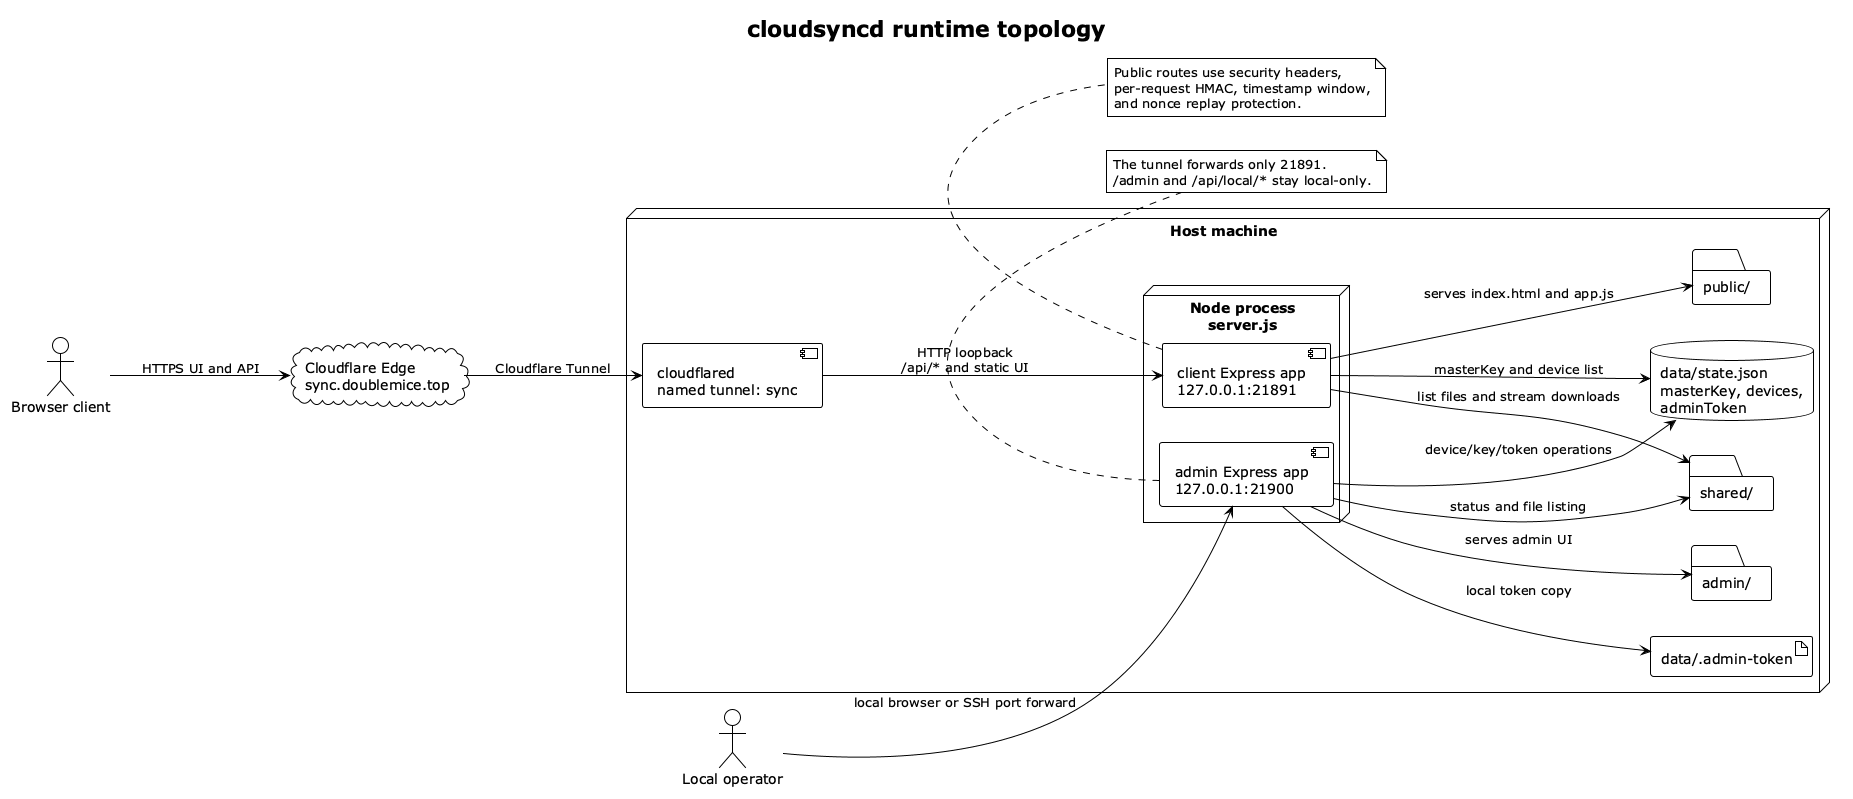
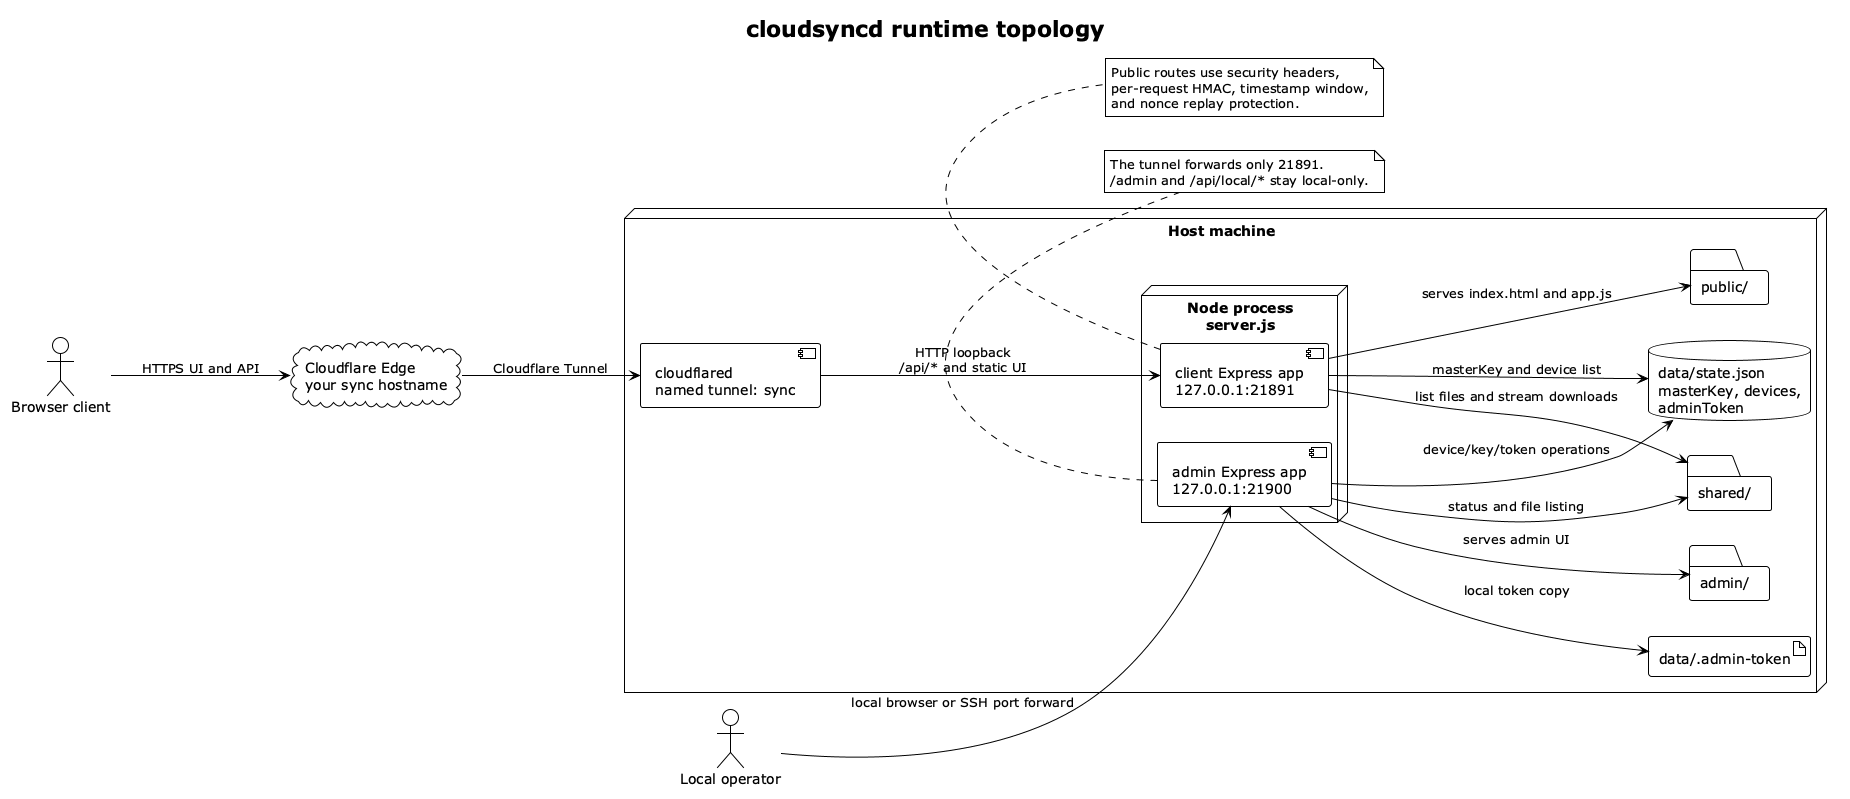
Remove private Cloudflare tunnel config

diff --git a/README.md b/README.md
@@ -35,7 +35,8 @@
 - `pin.js`: 通过本地管理端口生成新 PIN
 - `devices.js`: 设备列表、撤销、主密钥轮换、管理 Token 轮换
 - `share.js`: 把文件或目录加入 `shared/`，默认使用硬链接，失败时回退复制
-- `cloudflared-config.yml`: 当前私有部署的 Cloudflare Tunnel 配置
+- `cloudflared-config.example.yml`: Cloudflare Tunnel 配置模板
+- `cloudflared-config.yml`: 本地私有 Tunnel 配置，默认忽略，不提交
 - `data/`: 运行时状态，保存主密钥、已配对设备和管理 Token，必须保持忽略
 - `shared/`: 运行时共享载荷目录，必须保持忽略
 
@@ -124,7 +125,16 @@ ssh -L 21900:127.0.0.1:21900 user@server
 
 ## Cloudflare Tunnel
 
-当前私有部署配置在 `cloudflared-config.yml` 中，命名隧道 `sync` 将 `https://sync.example.com` 转发到本机 `127.0.0.1:21891`。凭证文件位于 `~/.cloudflared/`，不在仓库中。
+仓库只保留 `cloudflared-config.example.yml` 模板。真实的 `cloudflared-config.yml` 包含 tunnel ID、hostname 和凭证文件路径，默认被 `.gitignore` 忽略，不应提交。
+
+首次配置：
+
+```bash
+cp cloudflared-config.example.yml cloudflared-config.yml
+# 编辑 cloudflared-config.yml，填入自己的 tunnel、credentials-file 和 hostname
+```
+
+目标拓扑是将你的公网 hostname 转发到本机 `127.0.0.1:21891`。
 
 日常启动：
 
@@ -135,10 +145,10 @@ WITH_TUNNEL=1 ./start.sh
 或服务已运行时单独启动隧道：
 
 ```bash
-cloudflared tunnel --config cloudflared-config.yml run sync
+cloudflared tunnel --config cloudflared-config.yml run <tunnel-name>
 ```
 
-迁移到其他机器或域名时，需要重新创建 Cloudflare Tunnel，并更新 `tunnel`、`credentials-file` 和 `hostname`。
+迁移到其他机器或域名时，需要重新创建 Cloudflare Tunnel，并只更新本地 `cloudflared-config.yml`。
 
 没有固定域名时，可以临时使用：
 

diff --git a/docs/architecture.md b/docs/architecture.md
@@ -9,7 +9,7 @@
 对应源码：
 
 - `start.sh`: 从仓库目录启动 `server.js`，可选拉起 `cloudflared tunnel --config ... run sync`
-- `cloudflared-config.yml`: 将 `sync.example.com` 转发到 `http://127.0.0.1:21891`
+- `cloudflared-config.example.yml`: 展示将公网 hostname 转发到 `http://127.0.0.1:21891` 的模板
 - `server.js`: 同一 Node 进程中启动两个 Express app
 - `public/`: 公网客户端 UI，只经客户端端口访问
 - `admin/`: 本地管理 UI，只经管理端口访问
@@ -20,7 +20,7 @@
 
 - 客户端端口默认绑定 `127.0.0.1:21891`，面向 Cloudflare Tunnel。
 - 管理端口默认绑定 `127.0.0.1:21900`，不在 tunnel ingress 规则中。
-- 公网域名只应到达客户端 Express app；`/admin`、`/admin.js`、`/api/local/*` 不应通过公网命中管理端。
+- 公网 hostname 只应到达客户端 Express app；`/admin`、`/admin.js`、`/api/local/*` 不应通过公网命中管理端。
 - HSTS 不在 Node origin 上设置；origin 是本机 HTTP，公网 HTTPS 由 Cloudflare 边缘终止。
 
 ## 配对和下载流程